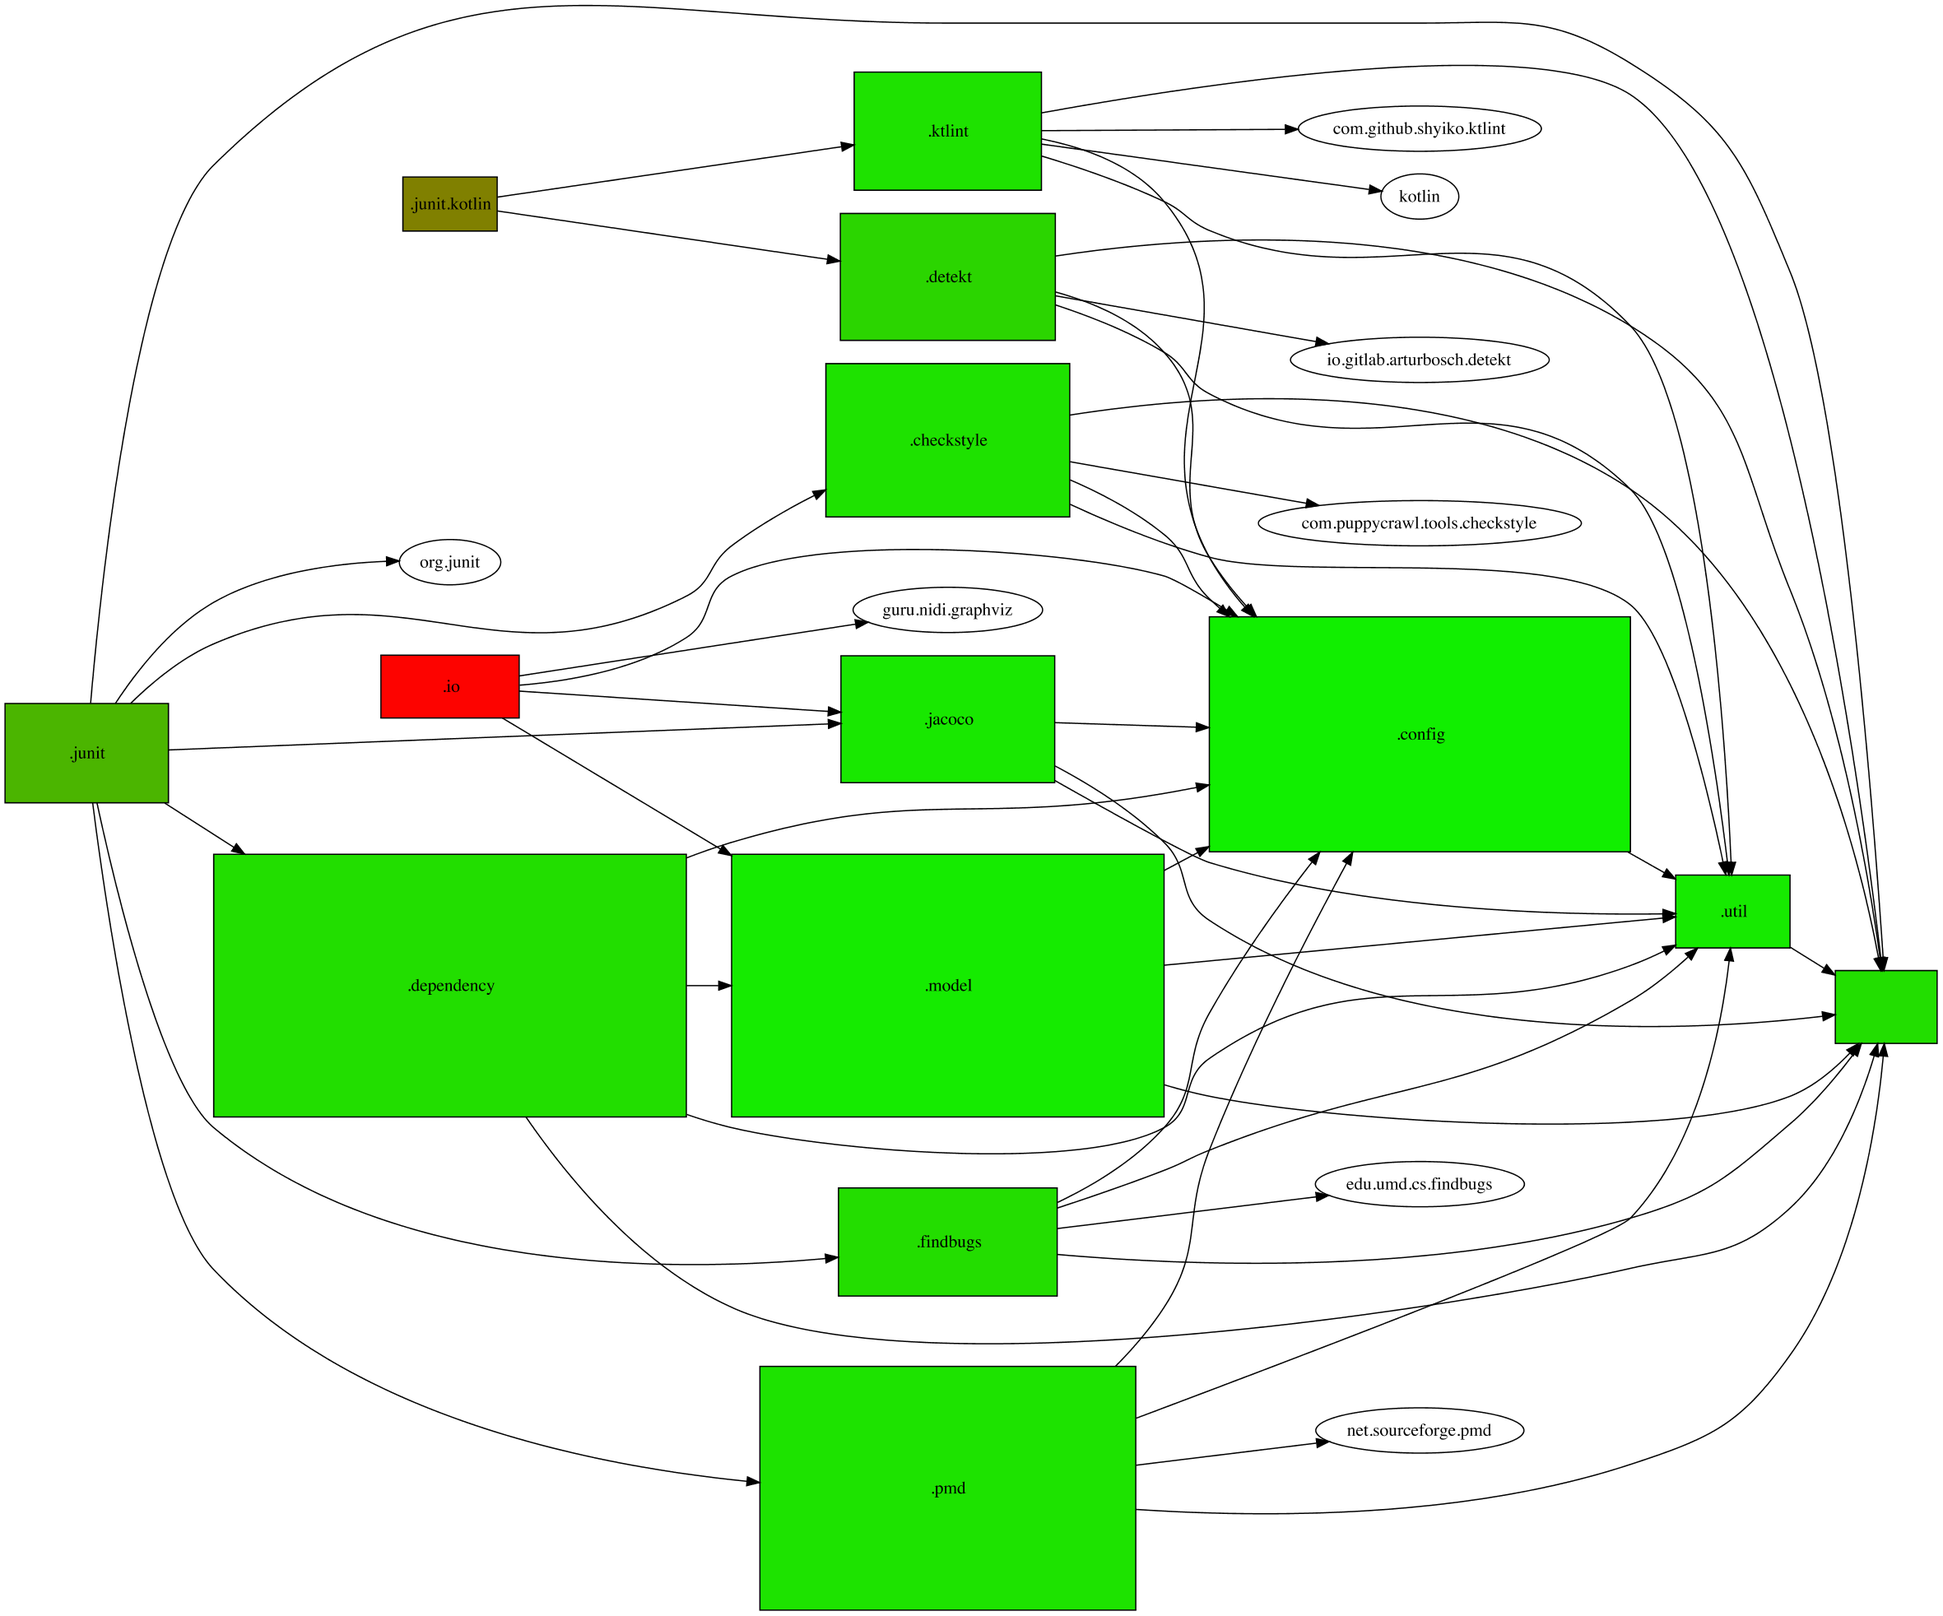
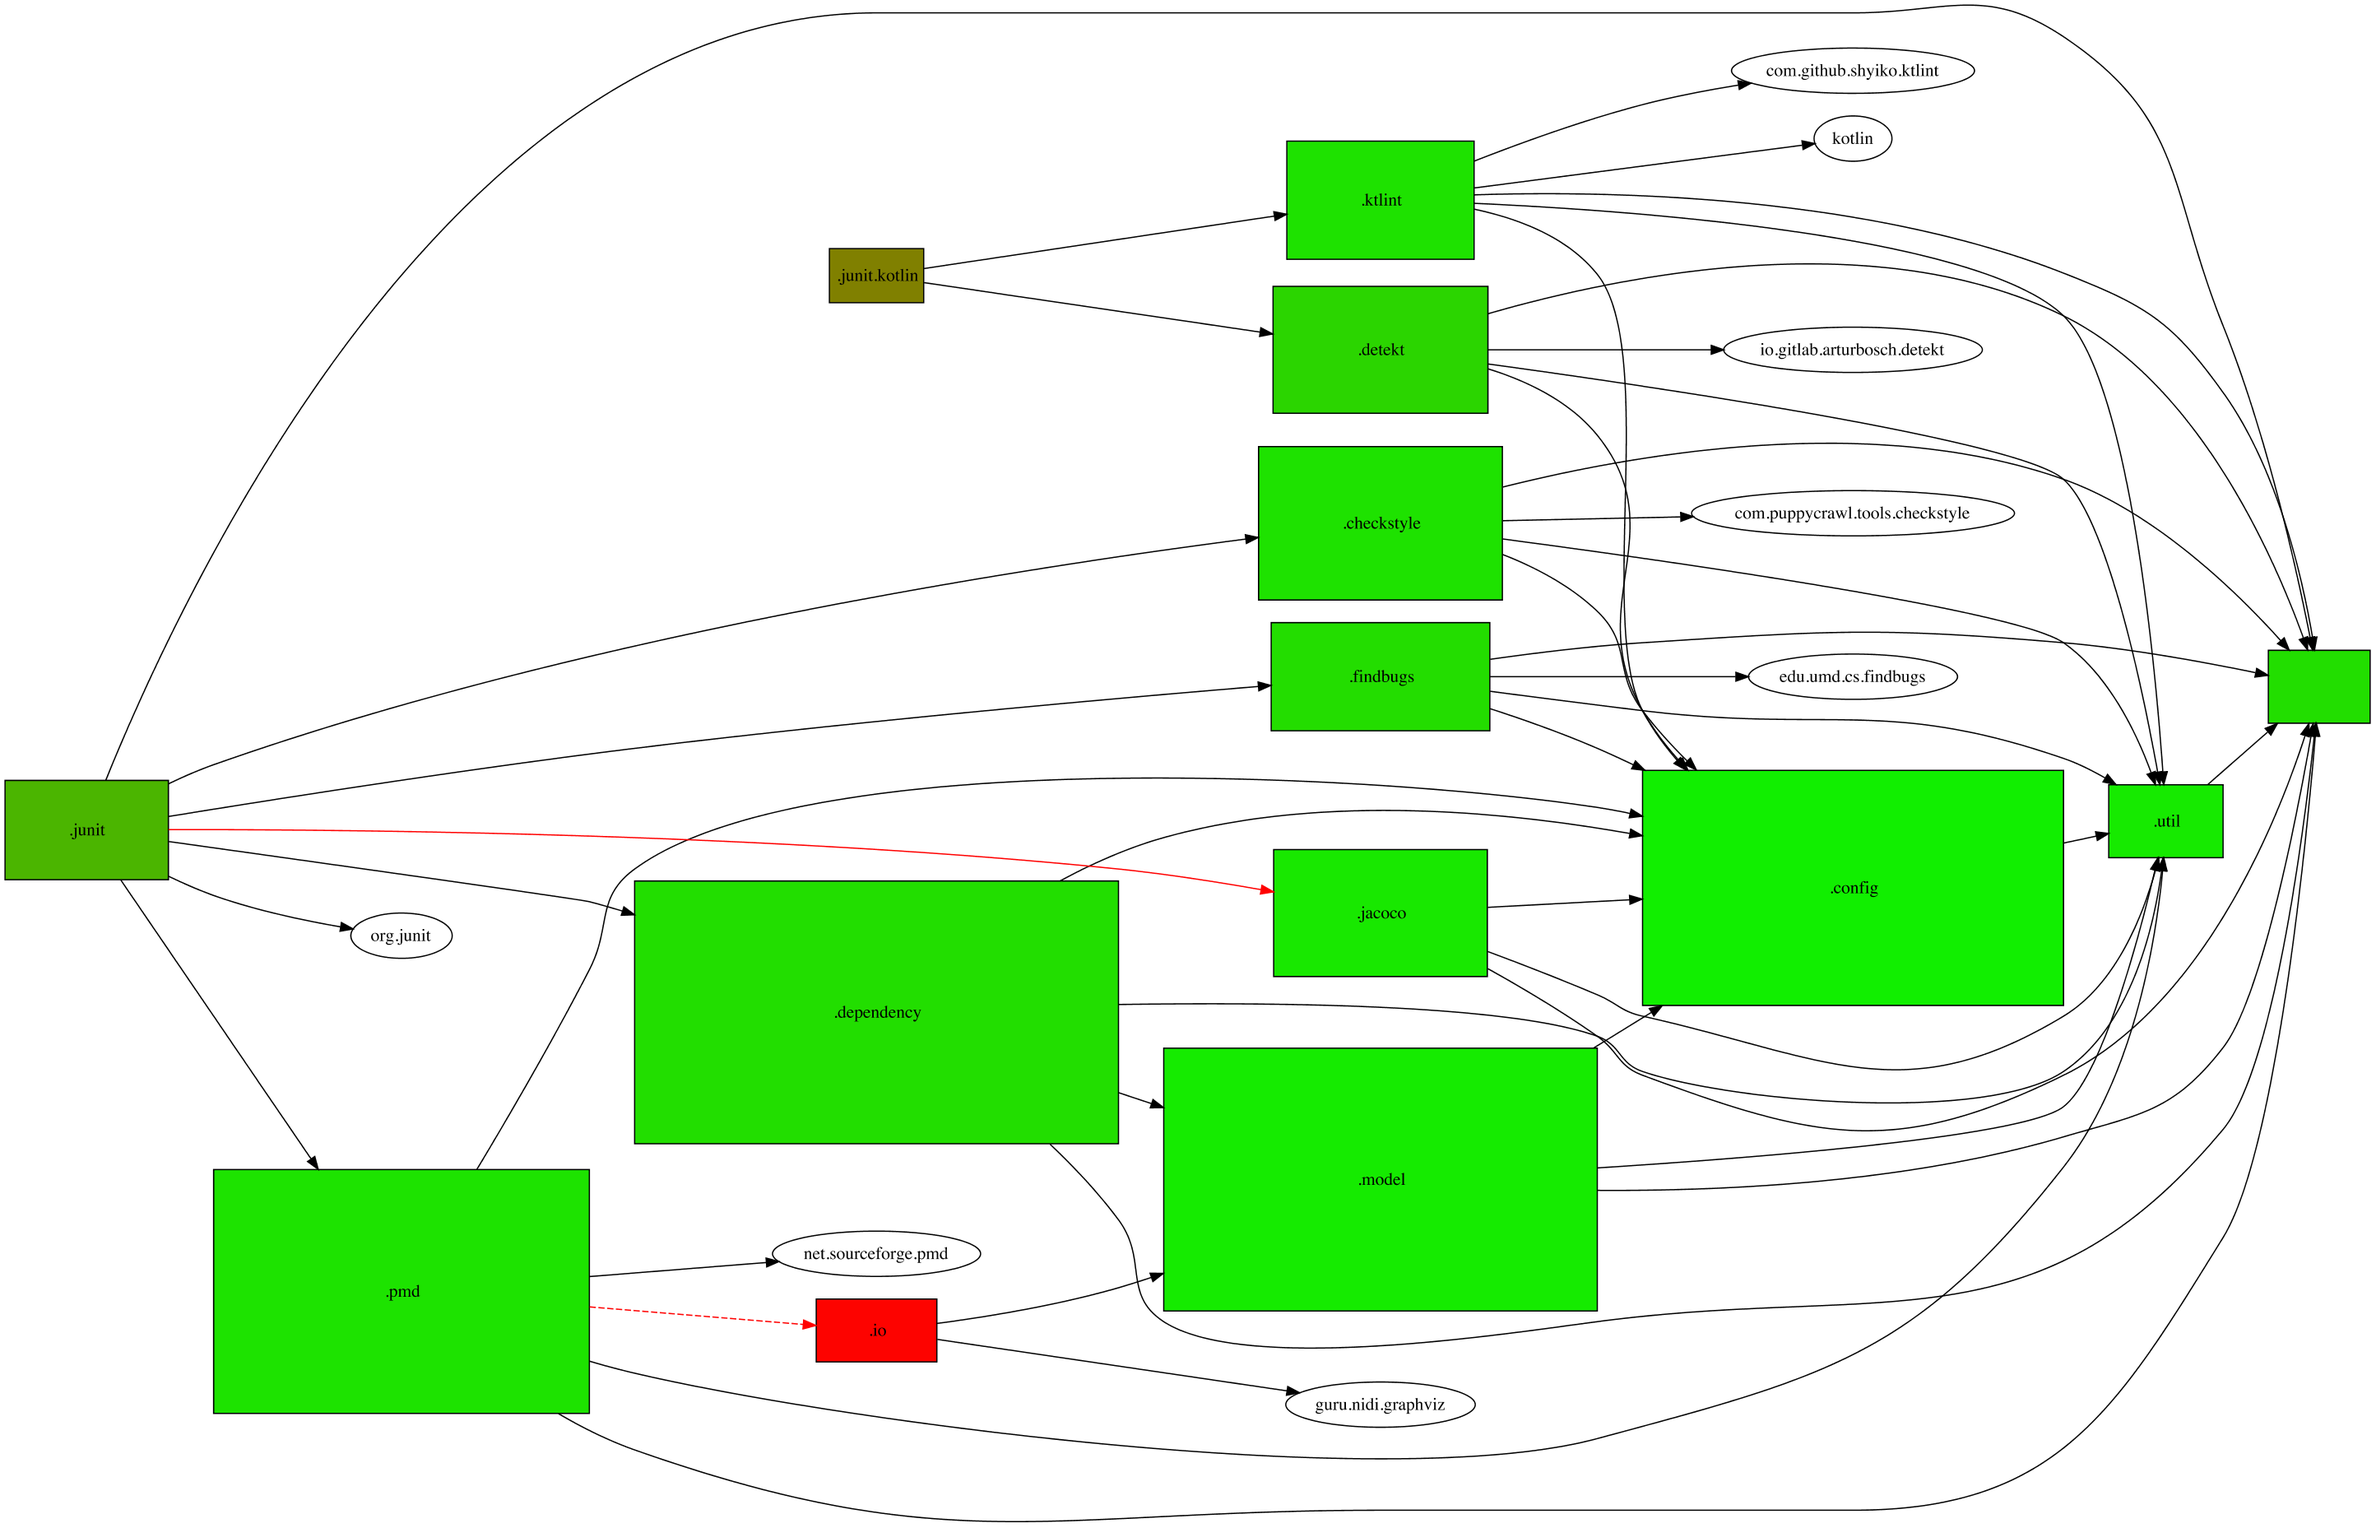
more work on ModelVisualizer

diff --git a/code-assert/src/test/java/guru/nidi/codeassert/io/ModelVisualizerTest.java b/code-assert/src/test/java/guru/nidi/codeassert/io/ModelVisualizerTest.java
@@ -16,14 +16,27 @@
 package guru.nidi.codeassert.io;
 
 import guru.nidi.codeassert.config.AnalyzerConfig;
-import guru.nidi.codeassert.model.Model;
+import guru.nidi.codeassert.config.For;
+import guru.nidi.codeassert.dependency.*;
+import guru.nidi.codeassert.jacoco.*;
+import guru.nidi.codeassert.model.*;
+import guru.nidi.graphviz.attribute.*;
+import guru.nidi.graphviz.model.MutableNode;
 import org.junit.jupiter.api.Disabled;
 import org.junit.jupiter.api.Test;
 
 import java.io.File;
 import java.io.IOException;
+import java.util.Map;
+import java.util.function.Function;
 
+import static guru.nidi.codeassert.config.CollectorConfig.just;
+import static guru.nidi.codeassert.dependency.DependencyRules.denyAll;
 import static guru.nidi.codeassert.io.ModelVisualizer.replaceFunc;
+import static guru.nidi.graphviz.attribute.Size.Mode.FIXED;
+import static guru.nidi.graphviz.model.Factory.mutNode;
+import static guru.nidi.graphviz.model.Factory.to;
+import static java.util.stream.Collectors.toMap;
 import static org.junit.jupiter.api.Assertions.assertTrue;
 
 class ModelVisualizerTest {
@@ -35,9 +48,66 @@ class ModelVisualizerTest {
                 .ignoringPackages("java", "org.hamcrest", "org.slf4j", "org.apache")
                 .mergingPackages("edu.umd.cs.findbugs", "net.sourceforge.pmd", "io.gitlab.arturbosch.detekt", "com.puppycrawl.tools.checkstyle", "com.github.shyiko.ktlint", "kotlin", "org.junit", "guru.nidi.graphviz")
                 .read();
-        final ModelVisualizer visualizer = new ModelVisualizer(model).labelFunc(replaceFunc("guru.nidi.codeassert", ""));
+
+        class GuruNidiCodeassert extends DependencyRuler {
+            DependencyRule checkstyleLib = denyRule("com.puppycrawl.tools.checkstyle").andAllSub();
+            DependencyRule detektLib = denyRule("io.gitlab.arturbosch.detekt").andAllSub();
+            DependencyRule findBugsLib = denyRule("edu.umd.cs.findbugs").andAllSub();
+            DependencyRule ktlintLib = denyRule("com.github.shyiko.ktlint").andAllSub();
+            DependencyRule pmdLib = denyRule("net.sourceforge.pmd").andAllSub();
+            DependencyRule graphvizLib = denyRule("guru.nidi.graphviz").andAllSub();
+            DependencyRule config, dependency, findbugs, checkstyle, detekt, io, model, pmd, ktlint, util, junit, junitKotlin, jacoco;
+
+            @Override
+            public void defineRules() {
+                base().mayBeUsedBy(all());
+                config.mayBeUsedBy(all());
+                util.mayBeUsedBy(all());
+                dependency.mayUse(model);
+                junit.mayUse(model, dependency, findbugs, checkstyle, pmd);
+                junitKotlin.mayUse(ktlint, detekt);
+                checkstyle.mayUse(checkstyleLib);
+                detekt.mayUse(detektLib);
+                findbugs.mayUse(findBugsLib);
+                io.mayUse(jacoco, model, graphvizLib);
+                ktlint.mayUse(ktlintLib);
+                pmd.mayUse(pmdLib).mustUse(io);
+            }
+        }
+
+        final DependencyRules rules = denyAll()
+                .withExternals("java.*", "org.*", "kotlin.*")
+                .withRelativeRules(new GuruNidiCodeassert());
+        final Dependencies dependencies = new DependencyAnalyzer(model).rules(rules).analyze().findings();
+
+        final Map<String, Double> coverage = new JacocoAnalyzer(new CoverageCollector(CoverageType.LINE)
+                .config(just(For.allPackages().setMinima(100))))
+                .analyze()
+                .findings().stream()
+                .collect(toMap(f -> f.getPack(), f -> f.getValues()[0]));
+
+        final Function<String, String> labelFunc = replaceFunc("guru.nidi.codeassert", "");
+        final ModelVisualizer visualizer = new ModelVisualizer(model).labelFunc(labelFunc);
         final File target = new File("images/packages.png");
-        visualizer.visualize().toFile(target);
+        visualizer.visualizePackages(pack -> {
+            final MutableNode node = mutNode(labelFunc.apply(pack.getName())).add(Shape.ELLIPSE);
+            if (model.isOwnPackage(pack)) {
+                final Double cover = coverage.getOrDefault(pack.getName(), 1D);
+                final int codeSize = pack.getClasses().stream().mapToInt(CodeClass::getTotalSize).sum();
+                node.add(Shape.RECTANGLE)
+                        .add(Size.mode(FIXED).size(1 + codeSize / 20000.0, .5 + pack.getClasses().size() / 10.0))
+                        .add(Color.rgb(255 - (int) (2.55 * cover), (int) (2.55 * cover) - 255, 0).fill())
+                        .add(Style.FILLED);
+            }
+            for (String missing : dependencies.getMissing(pack.getName(), pack.uses(), CodePackage::getName)) {
+                node.addLink(to(mutNode(labelFunc.apply(missing))).with(Style.DASHED, Color.RED));
+            }
+            for (CodePackage dep : pack.uses()) {
+                final boolean denied = dependencies.isDenied(pack.getName(), dep.getName());
+                node.addLink(to(mutNode(labelFunc.apply(dep.getName()))).with(denied ? Color.RED : Color.BLACK));
+            }
+            return node;
+        }).toFile(target);
         assertTrue(target.exists());
     }
 }

diff --git a/code-assert/src/main/java/guru/nidi/codeassert/io/ModelVisualizer.java b/code-assert/src/main/java/guru/nidi/codeassert/io/ModelVisualizer.java
@@ -15,75 +15,66 @@
  */
 package guru.nidi.codeassert.io;
 
-import guru.nidi.codeassert.config.For;
-import guru.nidi.codeassert.jacoco.*;
-import guru.nidi.codeassert.model.*;
-import guru.nidi.graphviz.attribute.*;
+import guru.nidi.codeassert.model.CodePackage;
+import guru.nidi.codeassert.model.Model;
+import guru.nidi.graphviz.attribute.RankDir;
 import guru.nidi.graphviz.engine.Graphviz;
 import guru.nidi.graphviz.model.*;
 
-import java.util.Map;
 import java.util.function.Function;
 
-import static guru.nidi.codeassert.config.CollectorConfig.just;
 import static guru.nidi.graphviz.model.Factory.mutGraph;
-import static guru.nidi.graphviz.model.Factory.mutNode;
-import static java.util.stream.Collectors.toMap;
 
 public class ModelVisualizer {
     private final Model model;
-    private final Function<CodePackage, String> labelFunc;
+    private final Function<String, String> labelFunc;
 
     public ModelVisualizer(Model model) {
-        this(model, CodePackage::getName);
+        this(model, n -> n);
     }
 
-    public ModelVisualizer(Model model, Function<CodePackage, String> labelFunc) {
+    public ModelVisualizer(Model model, Function<String, String> labelFunc) {
         this.model = model;
         this.labelFunc = labelFunc;
     }
 
-    public ModelVisualizer labelFunc(Function<CodePackage, String> labelFunc) {
+    public ModelVisualizer labelFunc(Function<String, String> labelFunc) {
         return new ModelVisualizer(model, labelFunc);
     }
 
-    public Visualized visualize() {
-        final Map<String, Double> coverage = new JacocoAnalyzer(new CoverageCollector(CoverageType.LINE)
-                .config(just(For.allPackages().setMinima(100))))
-                .analyze()
-                .findings().stream()
-                .collect(toMap(f -> f.getPack(), f -> f.getValues()[0]));
+    public Visualized visualizePackages(Function<CodePackage, MutableNode> transform) {
         final MutableGraph graph = CreationContext.use(ctx -> {
             final MutableGraph g = mutGraph().setDirected(true)
                     .graphAttrs().add(RankDir.LEFT_TO_RIGHT);
             for (CodePackage pack : model.getPackages()) {
-                final MutableNode source = mutNode(labelFunc.apply(pack)).add(Shape.ELLIPSE);
-                if (model.isOwnPackage(pack)) {
-                    final Double cover = coverage.getOrDefault(pack.getName(), 1D);
-                    final int codeSize = pack.getClasses().stream().mapToInt(CodeClass::getTotalSize).sum();
-                    source.add(Shape.RECTANGLE)
-                            .add(Size.mode(Size.Mode.FIXED))
-                            .add("height", .5 + pack.getClasses().size() / 10.0)
-                            .add("width", 1 + codeSize / 20000.0)
-                            .add(Color.rgb(255 - (int) (2.55 * cover), (int) (2.55 * cover) - 255, 0).fill())
-                            .add(Style.FILLED);
-                }
-                g.add(source);
-                for (CodePackage dep : pack.uses()) {
-                    source.addLink(labelFunc.apply(dep));
-                }
+                g.add(transform.apply(pack));
             }
+
+//            for (CodeClass clazz : model.getClasses()) {
+//                final MutableNode source = mutNode(clazz.getSimpleName()).add(Shape.ELLIPSE);
+//                if (model.isOwnPackage(clazz.getPackage())) {
+//                    final Double cover = coverage.getOrDefault(clazz.getName(), 1D);
+//                    source.add(Shape.RECTANGLE)
+//                            .add(Size.mode(FIXED).size(1 + clazz.getTotalSize() / 5000.0, 1))
+//                            .add(Color.rgb(255 - (int) (2.55 * cover), (int) (2.55 * cover) - 255, 0).fill())
+//                            .add(Style.FILLED);
+//                }
+//                g.add(source);
+//                for (CodeClass dep : clazz.uses()) {
+//                    source.addLink(dep.getSimpleName());
+//                }
+//            }
+
             return g;
         });
         return new Visualized(Graphviz.fromGraph(graph));
     }
 
-    public static Function<CodePackage, String> replaceFunc(String... replacements) {
+    public static Function<String, String> replaceFunc(String... replacements) {
         if (replacements.length % 2 != 0) {
             throw new IllegalArgumentException("An even number of replacement parameters expected.");
         }
-        return codePackage -> {
-            final String name = codePackage.getName();
+        return name -> {
             for (int i = 0; i < replacements.length; i += 2) {
                 if (name.startsWith(replacements[i])) {
                     return replacements[i + 1] + name.substring(replacements[i].length());

diff --git a/code-assert/src/main/java/guru/nidi/codeassert/dependency/Dependencies.java b/code-assert/src/main/java/guru/nidi/codeassert/dependency/Dependencies.java
@@ -18,6 +18,10 @@ package guru.nidi.codeassert.dependency;
 import guru.nidi.codeassert.config.LocationMatcher;
 
 import java.util.*;
+import java.util.function.Function;
+import java.util.stream.StreamSupport;
+
+import static java.util.stream.Collectors.toList;
 
 public class Dependencies {
     final DependencyMap allowed;
@@ -79,6 +83,16 @@ public class Dependencies {
 
     public Set<DependencyMap> getCycles() {
         return cycles;
+    }
+
+    public boolean isDenied(String from, String to) {
+        return denied.getDependency(from, to) != null;
+    }
+
+    public <T> List<String> getMissing(String from, Iterable<T> to, Function<T, String> toPack) {
+        return missing.getDependencies(from).keySet().stream().filter(miss ->
+                StreamSupport.stream(to.spliterator(), false).noneMatch(p -> toPack.apply(p).equals(miss))
+        ).collect(toList());
     }
 
     @Override

diff --git a/code-assert/src/main/java/guru/nidi/codeassert/dependency/DependencyMap.java b/code-assert/src/main/java/guru/nidi/codeassert/dependency/DependencyMap.java
@@ -21,7 +21,9 @@ import guru.nidi.codeassert.model.UsingElement;
 import java.util.*;
 import java.util.Map.Entry;
 
-class DependencyMap {
+import static java.util.Collections.emptyMap;
+
+public class DependencyMap {
     private final Map<String, Map<String, Info>> map = new LinkedHashMap<>();
 
     public <T> void with(int specificity, UsingElement<T> from, UsingElement<T> to) {
@@ -101,7 +103,11 @@ class DependencyMap {
      * Key: package, Value: A set of all classes importing the package
      */
     public Map<String, Info> getDependencies(String name) {
-        return map.get(name);
+        return map.getOrDefault(name, emptyMap());
+    }
+
+    public Info getDependency(String from, String to) {
+        return getDependencies(from).get(to);
     }
 
     @Override

diff --git a/code-assert/src/main/java/guru/nidi/codeassert/model/CodeClass.java b/code-assert/src/main/java/guru/nidi/codeassert/model/CodeClass.java
@@ -60,6 +60,10 @@ public class CodeClass extends UsingElement<CodeClass> {
         return name;
     }
 
+    public String getSimpleName() {
+        return name.substring(pack.getName().length() + 1);
+    }
+
     public CodePackage getPackage() {
         return pack;
     }
